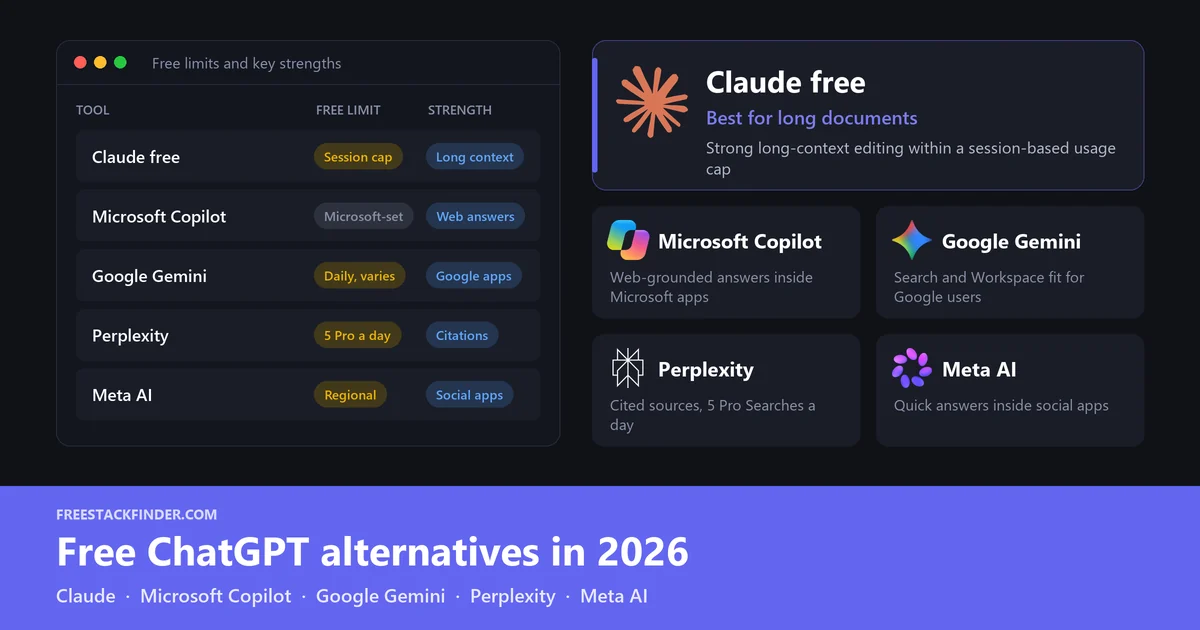
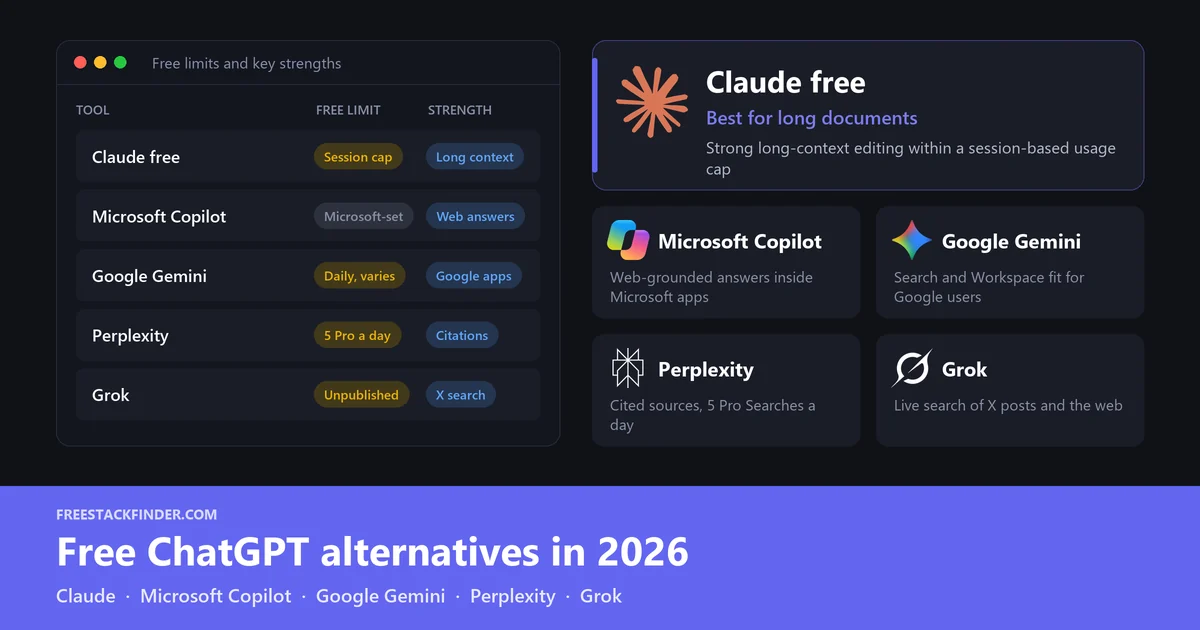
Cover Grok instead of Meta in the free ChatGPT alternatives guide

diff --git a/scripts/images/generate_free_chatgpt_alternatives.py b/scripts/images/generate_free_chatgpt_alternatives.py
@@ -28,7 +28,7 @@ panel_table(c, ACCENT, "Free limits and key strengths",
         ("Microsoft Copilot", [("Microsoft-set", NEUTRAL), ("Web answers", INFO)]),
         ("Google Gemini",     [("Daily, varies", WARN),   ("Google apps", INFO)]),
         ("Perplexity",        [("5 Pro a day", WARN),     ("Citations", INFO)]),
-        ("Meta AI",           [("Regional", WARN),        ("Social apps", INFO)]),
+        ("Grok",              [("Unpublished", WARN),    ("X search", INFO)]),
     ])
 
 card_featured(
@@ -44,13 +44,13 @@ card_grid(c, [
     ("#3b82f6", "Co", "Microsoft Copilot", "Web-grounded answers inside Microsoft apps", logo_path("microsoft-copilot.png")),
     ("#eab308", "Ge", "Google Gemini",     "Search and Workspace fit for Google users", logo_path("google-gemini.png")),
     ("#06b6d4", "Pe", "Perplexity",        "Cited sources, 5 Pro Searches a day", logo_path("perplexity.png")),
-    ("#ec4899", "Me", "Meta AI",           "Quick answers inside social apps", logo_path("meta-ai.png")),
+    ("#64748b", "Gr", "Grok",              "Live search of X posts and the web", logo_path("grok.png")),
 ])
 
 card_bar(
     c, ACCENT,
     title    = "Free ChatGPT alternatives in 2026",
-    subtitle = "Claude  ·  Microsoft Copilot  ·  Google Gemini  ·  Perplexity  ·  Meta AI",
+    subtitle = "Claude  ·  Microsoft Copilot  ·  Google Gemini  ·  Perplexity  ·  Grok",
 )
 
 c.save("free-chatgpt-alternatives.webp")

diff --git a/content/productivity/free-chatgpt-alternatives.md b/content/productivity/free-chatgpt-alternatives.md
@@ -2,7 +2,7 @@
 title: "Free ChatGPT alternatives in 2026: research, drafting, and coding options"
 description: "An alternative has to beat a ChatGPT free plan that already searches the web and reads uploads. Claude does it on long documents, Perplexity on cited sources."
 date: "2026-04-21"
-lastmod: "2026-08-06"
+lastmod: "2026-09-25"
 draft: false
 weight: 74
 slug: "free-chatgpt-alternatives"
@@ -18,6 +18,7 @@ keywords:
   - "claude vs chatgpt free"
   - "google gemini free plan"
   - "perplexity ai free"
+  - "grok free plan"
 image: "/img/free-chatgpt-alternatives.webp"
 author: "FreeStackFinder Team"
 ---
@@ -26,7 +27,7 @@ author: "FreeStackFinder Team"
 
 All of these services handle everyday chat, so the reason to use one instead of ChatGPT has to come from somewhere else: a long document handled in one pass, a research answer with sources, or an assistant inside apps you already use. Writing, coding, web search, file uploads, privacy, and app connections matter more here than model names.
 
-Several free services cover work that would otherwise require ChatGPT Plus. **Claude Free** suits long documents, **Microsoft Copilot** adds web-grounded answers inside Microsoft apps, and **Google Gemini** connects with Google services. **Perplexity AI** centers its answers on cited web sources. **Meta AI** handles short questions inside WhatsApp and Instagram. The [free AI writing tools guide](/productivity/free-ai-writing-tools/) compares drafting and editing features separately.
+Several free services cover work that would otherwise require ChatGPT Plus. **Claude Free** suits long documents, **Microsoft Copilot** adds web-grounded answers inside Microsoft apps, and **Google Gemini** connects with Google services. **Perplexity AI** centers its answers on cited web sources. **Grok** adds real-time search of posts on X. The [free AI writing tools guide](/productivity/free-ai-writing-tools/) compares drafting and editing features separately.
 
 Plan limits and model access change often. Before building a workflow around any free assistant, check the current free-plan limits for message volume, web access, file upload support, coding help, image tools, and privacy controls.
 
@@ -121,25 +122,25 @@ Perplexity fits research that needs links back to source pages. Its citations ma
 [Use Perplexity AI free →](https://perplexity.ai)
 
 
-### 5. Meta AI
+### 5. Grok (xAI)
 
-Meta AI's advantage is placement rather than depth. It is built into Meta's web, mobile, and social apps.
+Grok's search covers posts on X as well as web pages, which helps with a story that is still developing and has little written about it yet. It runs at grok.com, in the iOS and Android apps, and inside X.
 
-Meta provides access through these surfaces:
-- Access without a separate subscription or credit card
-- Available inside WhatsApp, Instagram, Messenger, Facebook, and on the web at meta.ai
-- Image generation via Meta's Imagine tool
-- Current-information and recommendation features, with availability varying by region and app
-- Voice conversation mode on mobile apps
+A free account gets:
+- Real-time web and X search, at a lower allowance than paid plans
+- Voice mode
+- Image generation with Grok Imagine; every generated image carries a Grok watermark that cannot be removed
+- File uploads in any chat, including PDF, Word, Excel, PowerPoint, code, image, and audio files up to 150 MB each
+- Connectors for Gmail, Google Calendar, Google Drive, Outlook, OneDrive, and Microsoft Teams, which xAI makes available to all Grok users
 
-Availability and file support vary:
-- File and document features vary by app and region
-- Less suited to extended structured tasks compared to Claude or Copilot
-- Weaker performance on complex reasoning and technical tasks compared to frontier models
+Missing from the free plan:
+- Expert mode and video generation, which need a SuperGrok plan
+- A published message cap; free chat and voice limits reset on their own schedule, but xAI does not give the numbers
+- The no-training commitment, which xAI's plan table lists only for Business and Enterprise plans
 
-Meta AI fits short questions and drafts inside supported Meta apps. It is a weaker fit for document-heavy work because file features vary across apps and regions.
+Reach for Grok when the question is about news or public reaction, or when you want an assistant that can search an inbox or cloud folder without a subscription. Posts on X are unverified, so a claim that rests on one needs a second source. Check the data controls under Settings before uploading anything confidential; xAI's [plan comparison](https://x.ai/pricing) shows what each tier adds.
 
-[Use Meta AI free →](https://meta.ai)
+[Use Grok free →](https://grok.com)
 
 
 ## Compare limits, files, and source access
@@ -150,7 +151,7 @@ Meta AI fits short questions and drafts inside supported Meta apps. It is a weak
 | Microsoft Copilot | Microsoft-managed limits | Research-backed drafting | Web-grounded answers in Microsoft tools |
 | Google Gemini | Daily limits that change often | Google app users | Search and Workspace fit |
 | Perplexity AI | Basic searches + 5 Pro Searches daily | Research, fact-checking | Cited sources on every answer |
-| Meta AI | Free access with regional feature limits | Quick answers inside social apps | Access inside social apps |
+| Grok | Unpublished caps, limited search | News and public reaction | Live X search, free connectors |
 
 
 ## When to pay for ChatGPT
@@ -162,6 +163,6 @@ If your primary use is writing and editing, evaluate paid options against the to
 
 ## Research, drafting, and platform fit
 
-A practical free setup is ChatGPT plus one alternative chosen for the limit you hit most often. Long documents point to **Claude**, answers you need to verify point to **Perplexity**, and files that live in Google or Microsoft accounts point to **Gemini** or **Copilot**.
+A practical free setup is ChatGPT plus one alternative chosen for the limit you hit most often. Long documents point to **Claude**, answers you need to verify point to **Perplexity**, files that live in Google or Microsoft accounts point to **Gemini** or **Copilot**, and questions about what people are posting right now point to **Grok**.
 
 Pay only when higher usage, file analysis, research, image, or voice features are part of regular work. Grammar checkers for the final pass on anything these tools draft are compared in the [free Grammarly alternatives guide](/productivity/grammarly-alternatives/).

diff --git a/freestackfinder-progress-log.md b/freestackfinder-progress-log.md
@@ -1,8 +1,8 @@
 # FreeStackFinder — Project State
 
 **Site:** freestackfinder.com
-**Last updated:** 2026-09-25
-**Current day:** 86d
+**Last updated:** 2026-09-26
+**Current day:** 87a
 
 ## Current state
 
@@ -13,13 +13,22 @@
 - Next content: planned 50-article slate complete; further publishing should be GSC-led refreshes or net-new clusters
 - Next feature: see `FEATURE-STRATEGY.md` Phases 5–9; next Phase 9 candidate is orphan-image cleanup listing
 - Feature images: all 50 are 1200x630 WebP from generators in `scripts/images/` on the card-legible layout (Day 84a and 84c)
-- Product icons: all 50 feature images use real product icons instead of initials circles (Days 85c to 85n). Drawn glyphs from `image_helpers.glyph` appear only on cards that are not a single product or have no icon of their own. The 182 icon files in `scripts/images/logos/` each have a source row in `logos/SOURCES.md`; any new generator card should add its icon and source row the same way
+- Product icons: all 50 feature images use real product icons instead of initials circles (Days 85c to 85n). Drawn glyphs from `image_helpers.glyph` appear only on cards that are not a single product or have no icon of their own. The 183 icon files in `scripts/images/logos/` each have a source row in `logos/SOURCES.md`; any new generator card should add its icon and source row the same way
 - Weekly freshness rotation: Productivity checked 2026-09-23 (Day 84d); next is Business, then Creative, Security + Cloud, and Video
 - First-hand evidence: testing language is limited to two articles, `microsoft-office-alternatives` (Day 82a) and `dropbox-alternatives` (Day 85a)
 - Copy sameness: card descriptions, article openings, tool-section openers, and closings no longer share one formula across pages (Day 85h). The rule lives in "Sitewide sameness" in `website-content-humanizer.md`. Since Day 85j, `validate_front_matter.py` warns when a description repeats the formula; current content has 0 such warnings
 - Writing-pattern audit (Day 86a): `docs/WRITING-PATTERN-AUDIT-2026-09-25.md` lists 5 strong and 13 groups of medium findings with file, line, quote, and fix. All of them were fixed in Day 86b; weak tells were left unless they sat beside a stronger one. Internal-link sentences no longer use the "For ..., see our" or "If you ..., see our" formula anywhere, so new articles should link from a claim sentence instead
 
 ---
+
+### Day 87a - Grok replaces Meta AI in the ChatGPT alternatives guide
+
+- Date: 2026-09-26. Scoped to `content/productivity/free-chatgpt-alternatives.md`, its image generator, a new `scripts/images/logos/grok.png`, and its row in `logos/SOURCES.md`.
+- Article: Meta AI's section (5th) is replaced by Grok, with matching changes to the intro sentence, the comparison table row, and the closing decision rule. The section covers real-time web and X search (limited on the free plan), voice mode, Grok Imagine images with a permanent watermark, file uploads up to 150 MB per file, and connectors for Gmail, Google Calendar, Google Drive, Outlook, OneDrive, and Teams. The limits listed are Expert mode and video generation on SuperGrok only, no published free message cap, and the no-training commitment on Business and Enterprise only. Added the keyword "grok free plan" and set `lastmod` to 2026-09-25, the UTC build date, because the validator rejects the local date as future.
+- Sources: xAI's pricing page and plan comparison table (x.ai/pricing, read 2026-09-26), the Grok FAQ (docs.x.ai/grok/faq, updated 2026-08-27), the Grok overview (docs.x.ai/grok/overview), and the connectors page (docs.x.ai/grok/connectors, which says connectors are available to all Grok users). grok.com/plans returned a bot-verification page and was not used. Third-party claims that free image generation or the free plan itself had ended conflicted with xAI's own table and were not used.
+- Image: the Meta AI card and table row became Grok ("Unpublished" limit, "X search" strength). The icon is the mark cropped from Wikimedia Commons "Grok-feb-2025-logo.svg" (public domain) and recolored white. The regenerated image is 1200x630 WebP at 45 KB. `meta-ai.png` is now unused and stays in `logos/` with its source row.
+- Validation: `run_quality_checks.py --with-counts` passed 3/3 with 50 articles and 0 warnings. Hugo built to a temporary destination with no errors; the rendered page has the Grok section and a `tool-cta-btn` link to grok.com, with no "Meta AI" text left. No dash or curly-quote characters in the article. `git diff --check` passed.
+- Guardrails: no affiliate link added, no first-hand testing language, and no URL or slug change.
 
 ### Day 86d - Tool links render as CTA buttons
 

diff --git a/scripts/images/logos/SOURCES.md b/scripts/images/logos/SOURCES.md
@@ -57,6 +57,7 @@ Source files for feature image generators. They are not served by the site. Each
 | `zoho-calendar.png` | Zoho Calendar share image, https://www.zohowebstatic.com/sites/zweb/images/ogimage/calendar-logo.png, white background removed, cropped to the icon |
 | `perplexity.png` | Wikimedia Commons, "Perplexity AI logo.svg", 1280px PNG render, cropped to the icon, recolored white for dark cards |
 | `meta-ai.png` | Wikimedia Commons, "Meta AI Logo (2026).svg" (public domain), 330px PNG render, trimmed |
+| `grok.png` | Wikimedia Commons, "Grok-feb-2025-logo.svg" (public domain), 1280px PNG render, cropped to the mark, recolored white for dark cards |
 | `google-keep.png` | Wikimedia Commons, "Google Keep Logo 05.2026.svg" (public domain), 330px PNG render, trimmed |
 | `apple-notes.png` | Wikimedia Commons, "Notes (iOS 26) app icon.png" (public domain), 330px render, trimmed |
 | `standard-notes.png` | Wikimedia Commons, "Standard Notes - Icon.png" (public domain), 330px render, corners rounded |
